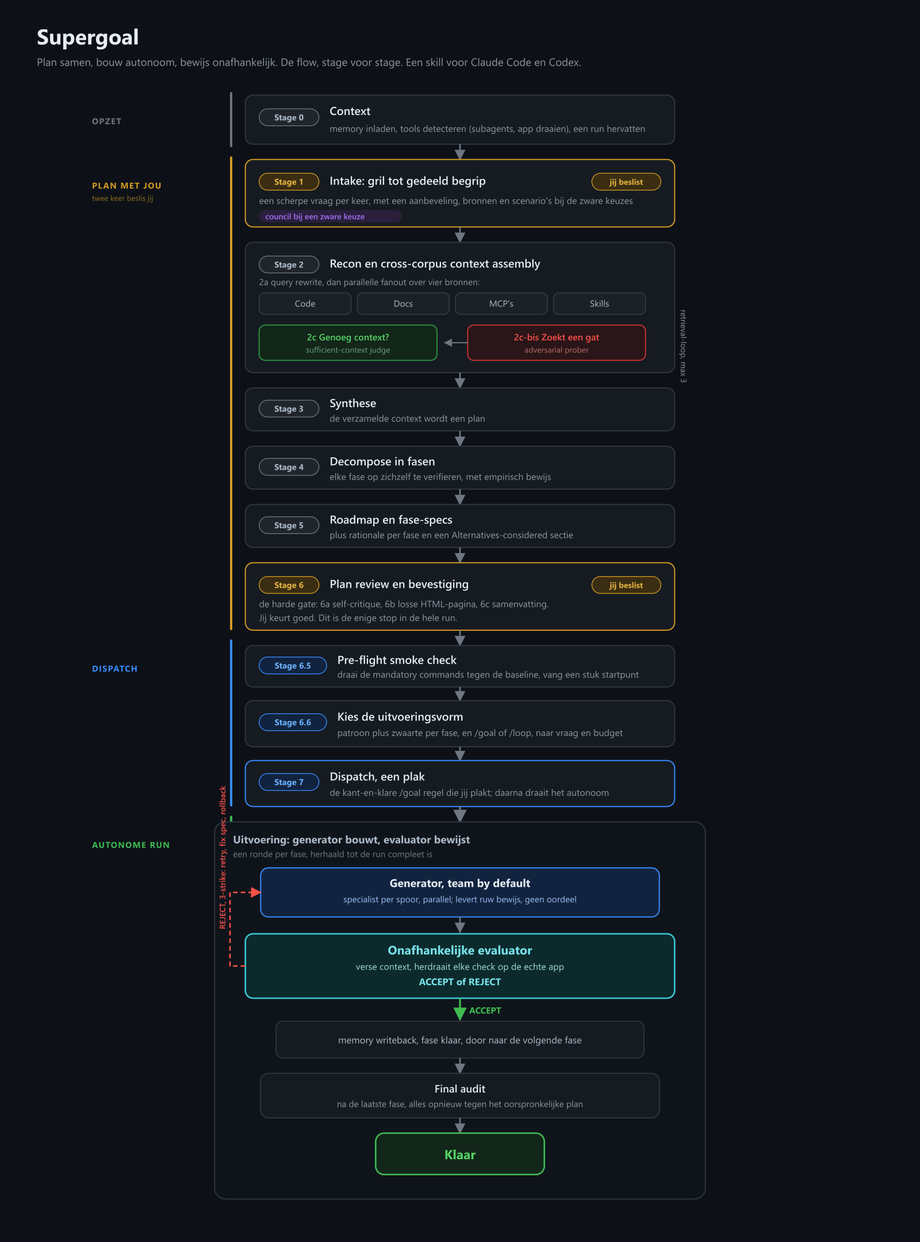
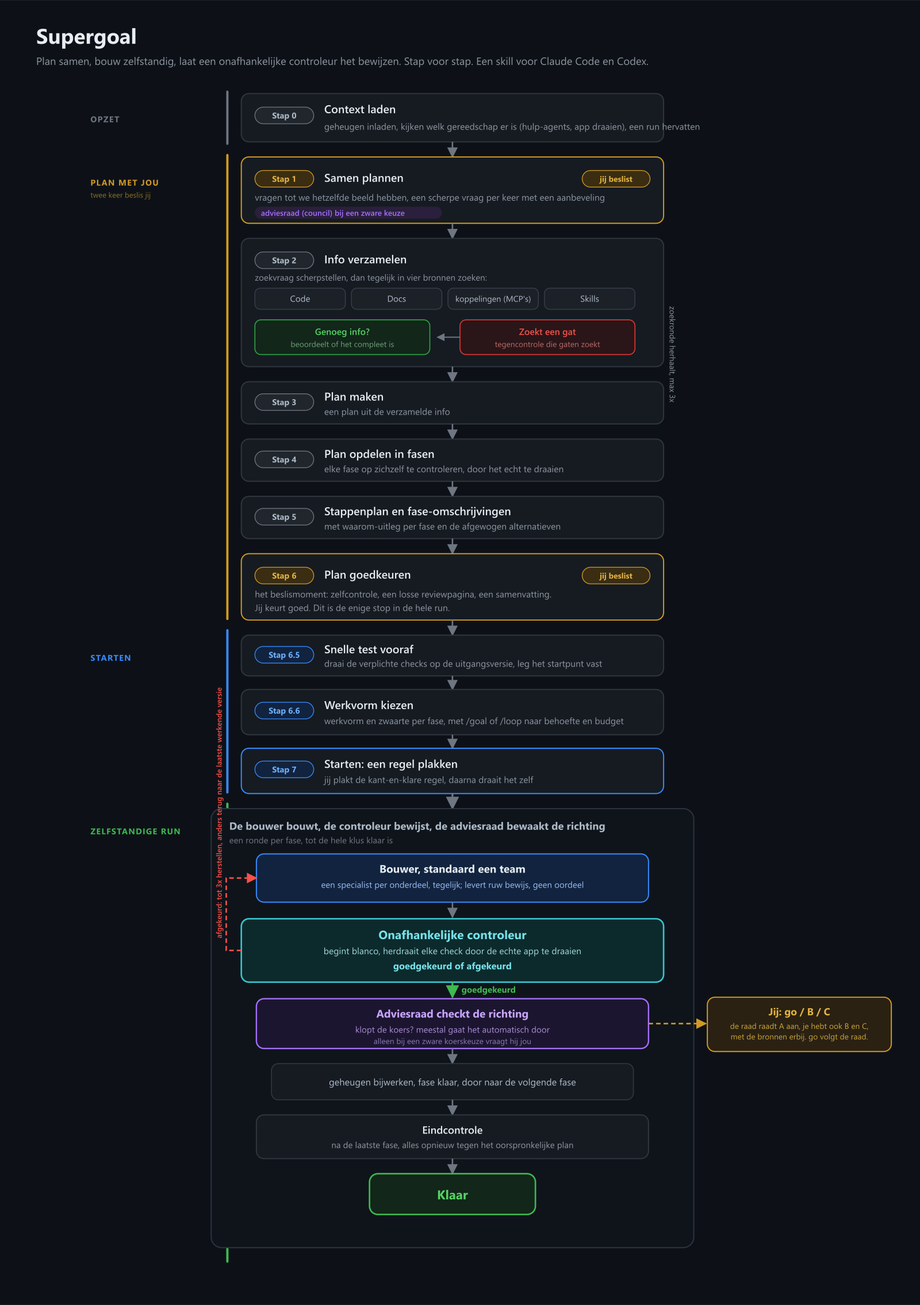
feat: council direction gate per phase; de-jargon the diagram and README
Adds a third role: after each evaluator ACCEPT a lightweight council direction-gate checks whether the phase locked a course the user should confirm or steer. Default is auto-approve and continue; it only escalates on a hard-to-reverse choice with multiple credible paths outside the confirmed scope, then convenes the council skill and presents recommendation A plus alternatives B/C and sources for a go/B/C answer. With no live input it follows A and logs it, so a long run never stalls. The correctness evaluator is unchanged and remains the only gate that closes a phase. New prompts/council-gate.md, STATE Council decisions log, goal-format council blocks, and B/C rewrites both the future phase-specs and the matching ROADMAP blocks so the final audit stays consistent. Redraws the dark architecture diagram in plain language and shows the council gate plus the go/B/C escalation.

Changed region(s): [[0.0312, 0.0, 0.9688, 0.9616], [0.0938, 0.1241, 0.1875, 0.1551]]

diff --git a/SKILL.md b/SKILL.md
@@ -12,7 +12,7 @@ $ARGUMENTS
 
 **Het principe waar alles omheen gebouwd is: niks is klaar tot iets onafhankelijks het bewijst, tegen de oorspronkelijke opdracht, door de app echt te draaien.** Claude Code stopt standaard zodra de agent zegt dat hij klaar is. Supergoal stopt pas als een controleur die het werk niet zelf maakte het bewijst. Dat ene verschil is de reden dat deze skill bestaat; al het andere staat daarvoor in dienst.
 
-## De twee rollen: generator en evaluator
+## De drie rollen: generator, evaluator en council
 
 Dit is de ruggengraat. Houd ze strikt gescheiden.
 
@@ -22,6 +22,8 @@ Dit is de ruggengraat. Houd ze strikt gescheiden.
 Een fase is pas klaar bij het oordeel van de evaluator, niet bij het rapport van de generator. REJECT start het herstel (drie pogingen, zie onder); pas bij ACCEPT sluit de fase.
 
 **Waarom dit beter is dan de standaard:** de grootste valkuil van autonome agents is dat ze zichzelf "klaar" verklaren terwijl het niet klopt. Een controleur met een schone lei, die alles zelf opnieuw doet, kan dat zelfbedrog niet overnemen.
+
+**De derde rol: council (de richtings-gate).** Op elke fasegrens, maar alleen nadat de evaluator de fase op correctheid heeft goedgekeurd, draait een lichte council-pass. De evaluator bewijst dat de fase doet wat de spec zegt (klopt het, werkt het); de council kijkt naar iets anders: stuurt het resultaat de juiste kant op, of moet de gebruiker de richting bijsturen. Default is AUTO-APPROVE en doorgaan zonder de gebruiker te storen. Alleen bij een keuze die moeilijk omkeerbaar is, meerdere geloofwaardige paden heeft, en buiten de bevestigde scope valt, escaleert de council: dan convoceert hij de volledige `council`-skill voor een aanbeveling (A), alternatieven (B/C) en bronnen, en presenteert die zodat jij `go`, `B` of `C` zegt. De council oordeelt nooit over correctheid en kan een ACCEPT niet terugdraaien, dus de evaluator-moat blijft intact. Volledige instructie in `prompts/council-gate.md`.
 
 **Isolatie per host:**
 - **Claude Code** (Task/Agent tool aanwezig): spawn de evaluator als subagent met een verse context. Echte isolatie.
@@ -38,6 +40,7 @@ Een lange run valt niet om door kosten maar door rate limits en door een te zwak
 | Sufficient-context judge + adversarial prober | sterk | dit is de context-gate; een zwakke judge laat gaten door |
 | Generator (executor) | het sessiemodel | bouwt het echte werk |
 | Evaluator | sterk, bij voorkeur opus | het hele voordeel hangt op een scherpe, onafhankelijke beoordelaar, dus nooit goedkoop |
+| Council (richtings-triage, en convocatie bij escalatie) | sessiemodel voor de triage, sterk voor een volle convocatie | de per-fase triage is een goedkope go/escaleer-call; een echte richtingskeuze verdient sterke onafhankelijke adviseurs |
 
 ## Wat "klaar" vereist
 
@@ -68,9 +71,9 @@ Het gewone plannen en uitvoeren leunt op wat Claude Code al kan (plan mode, /goa
 4. **Decompose**: het juiste aantal onafhankelijk verifieerbare fasen, elk met empirisch bewijs waar gedrag ontstaat.
 5. **Specs**: per fase een werk-spec met geklasseerde criteria plus een rationale met rollback-doel.
 6. **Plan review**: een menselijke gate, met self-critique en een HTML-overzicht.
-7. **Dispatch**: een kant-en-klare `/goal`. Daarna draait de generator/evaluator-loop autonoom tot de final audit het geheel tegen de oorspronkelijke spec bewijst.
+7. **Dispatch**: een kant-en-klare `/goal`. Daarna draait de generator/evaluator/council-loop autonoom tot de final audit het geheel tegen de oorspronkelijke spec bewijst. Per fase: de generator bouwt, de evaluator bewijst correctheid (ACCEPT/REJECT), en op ACCEPT keurt de council de richting goed of escaleert hij naar jou.
 
-Twee menselijke gates: verduidelijkingsvragen (Stage 1) en plan review (Stage 6). Daartussen en erna autonoom.
+Twee vaste menselijke gates (verduidelijkingsvragen in Stage 1, plan review in Stage 6), plus een dynamische gate die de council bepaalt: hij pauzeert de run alleen wanneer alleen jij de richting kunt kiezen. Bij geen live input volgt hij zijn eigen aanbeveling en gaat door, zodat je niets hoeft te babysitten.
 
 ## Lokaliseer de skill-directory
 
@@ -403,13 +406,13 @@ Leg de keuze vast in `STATE.md` als `Dispatch: <goal | loop> + <subagents | work
 Slash commands vuren alleen vanuit gebruikersinput, dus dit is een eerlijke een-plak overdracht. Print de vorm die Stage 6.6 koos. In de meeste gevallen is dat de `/goal` plak hieronder; bij een terugkerende taak print je in plaats daarvan een `/loop` (zie onder). Na "Start now":
 
 1. Update `STATE.md`: `Status: READY_TO_DISPATCH`, `Current phase: 1`, en leg `Baseline ref:` vast op `git rev-parse HEAD 2>/dev/null || echo "no-git"`. Initialiseer `Phase baselines:` (leeg); de generator voegt per fasegrens een entry toe (`phase <N> pre: <ref>`), de rollback-ankers waar `phase-N-rationale.md` naar verwijst.
-2. Kopieer `$SUPERGOAL_DIR/templates/PROTOCOL.md` naar `.supergoal/PROTOCOL.md`, `$SUPERGOAL_DIR/prompts/phase-judge.md` naar `.supergoal/evaluator.md` (de evaluator-instructie die de subagent of fallback-pass leest), `$SUPERGOAL_DIR/prompts/phase-team.md` naar `.supergoal/phase-team.md` (de team-instructie voor de generator), `$SUPERGOAL_DIR/references/workflow-patterns.md` naar `.supergoal/workflow-patterns.md` (de patroon-keuze voor de generator), en `$SUPERGOAL_DIR/scripts/repo-state.sh` naar `.supergoal/repo-state.sh`.
+2. Kopieer `$SUPERGOAL_DIR/templates/PROTOCOL.md` naar `.supergoal/PROTOCOL.md`, `$SUPERGOAL_DIR/prompts/phase-judge.md` naar `.supergoal/evaluator.md` (de evaluator-instructie die de subagent of fallback-pass leest), `$SUPERGOAL_DIR/prompts/phase-team.md` naar `.supergoal/phase-team.md` (de team-instructie voor de generator), `$SUPERGOAL_DIR/references/workflow-patterns.md` naar `.supergoal/workflow-patterns.md` (de patroon-keuze voor de generator), `$SUPERGOAL_DIR/prompts/council-gate.md` naar `.supergoal/council-gate.md` (de richtings-gate die na een evaluator-ACCEPT draait), en `$SUPERGOAL_DIR/scripts/repo-state.sh` naar `.supergoal/repo-state.sh`.
 3. Verifieer elke `phase-N.md` en draai `validate-phase.sh` erop.
 4. Print het kant-en-klare `/goal` commando:
 
 ````
 ```
-/goal "Execute all phases in .supergoal/ROADMAP.md sequentially per .supergoal/PROTOCOL.md. For each phase: read phase-N.md, do the work as the GENERATOR, print SUPERGOAL_PHASE_EVIDENCE (raw commands+output+exit codes, files changed, artifact observations; NO verdict). Then run the INDEPENDENT EVALUATOR per .supergoal/evaluator.md: it re-runs every check itself against repository ground truth and the running artifact, blind to the generator's account, and prints SUPERGOAL_EVAL_VERDICT phase=N with ACCEPT or REJECT. Only on ACCEPT print SUPERGOAL_PHASE_DONE and advance; on REJECT follow the 3-strike recovery in PROTOCOL.md. After the last phase, the evaluator runs the FINAL AUDIT against the original ROADMAP.md and re-observes the artifact; only after AUDIT_COMPLETE print SUPERGOAL_RUN_COMPLETE. Done when SUPERGOAL_RUN_COMPLETE appears with one ACCEPT and one SUPERGOAL_PHASE_DONE per phase, AUDIT_COMPLETE before it, and no FAILURE_HANDOFF or AUDIT_HANDOFF this run."
+/goal "Execute all phases in .supergoal/ROADMAP.md sequentially per .supergoal/PROTOCOL.md. For each phase: read phase-N.md, do the work as the GENERATOR, print SUPERGOAL_PHASE_EVIDENCE (raw commands+output+exit codes, files changed, artifact observations; NO verdict). Then run the INDEPENDENT EVALUATOR per .supergoal/evaluator.md: it re-runs every check itself against repository ground truth and the running artifact, blind to the generator's account, and prints SUPERGOAL_EVAL_VERDICT phase=N with ACCEPT or REJECT. Only on ACCEPT run the COUNCIL DIRECTION GATE per .supergoal/council-gate.md: it judges direction not correctness, prints SUPERGOAL_COUNCIL_VERDICT phase=N with AUTO-APPROVE or ESCALATE; on ESCALATE it convenes the council skill, prints SUPERGOAL_COUNCIL_ESCALATE with recommendation A, alternatives B/C and sources, and either takes the user's go/B/C or, with no live input, follows A and logs it. Then print SUPERGOAL_PHASE_DONE and advance; on REJECT follow the 3-strike recovery in PROTOCOL.md. After the last phase, the evaluator runs the FINAL AUDIT against the original ROADMAP.md and re-observes the artifact; only after AUDIT_COMPLETE print SUPERGOAL_RUN_COMPLETE. Done when SUPERGOAL_RUN_COMPLETE appears with one ACCEPT, one SUPERGOAL_COUNCIL_VERDICT (AUTO-APPROVE or a resolved escalation), and one SUPERGOAL_PHASE_DONE per phase, AUDIT_COMPLETE before it, and no FAILURE_HANDOFF or AUDIT_HANDOFF this run."
 ```
 ````
 
@@ -425,7 +428,7 @@ Koos Stage 6.6 voor `/loop` (de taak is terugkerend, niet bouw-tot-klaar), print
 
 ---
 
-## Uitvoering: generator bouwt, evaluator bewijst
+## Uitvoering: generator bouwt, evaluator bewijst, council bewaakt de richting
 
 Dit is de loop die binnen de `/goal` sessie draait, herhaald tot `SUPERGOAL_RUN_COMPLETE`. Volledige mechaniek in `.supergoal/PROTOCOL.md`; de kern:
 
@@ -433,8 +436,9 @@ Dit is de loop die binnen de `/goal` sessie draait, herhaald tot `SUPERGOAL_RUN_
 2. Print `SUPERGOAL_PHASE_START`.
 3. **Generator (team by default, solo alleen bij een atomaire fase)**: kies eerst het werkpatroon dat bij de fase past (zie `references/workflow-patterns.md`): default geen patroon, anders classify-and-act, fan-out-and-synthesize, adversarial verification, generate-and-filter, tournament of loop-until-done naar het signaal in de spec. Knip de fase in onafhankelijke sporen; bij twee of meer sporen dispatch je een specialist-subagent per spoor parallel (zie `.supergoal/phase-team.md`), en los per spoor de skill op met de skill-finder-passes (installed matchen; anders zoeken en `npx skills add <owner/repo>` van skills.sh; anders zelf een skill schrijven). Parallelle subagents zijn de default en kosten geen credits; sequentieel is alleen voor een atomaire fase of zonder subagent-tool, de Workflow-tool alleen voor grote swarms met credits. Een fase met twee of meer sporen draait nooit als een enkele agent, en een team met een agent bestaat niet. Print eerst `SUPERGOAL_PHASE_TEAM` (patroon, sporen, specialisten parallel, opgeloste skills). Doe dan het werk, draai mandatory commands, stuur het artefact aan voor de empirische criteria, en print `SUPERGOAL_PHASE_EVIDENCE`: ruwe command-output + exit codes, gewijzigde bestanden, en de observaties. Het team velt geen oordeel; dat blijft de evaluator.
 4. **Evaluator** (subagent met verse context, of fallback-pass): leest `phase-N.md` en `.supergoal/evaluator.md`, niet het generator-oordeel. Herdraait elke check per klasse: commands opnieuw, `repo-state.sh` voor deliverables, het artefact zelf aansturen voor `empirical`, blind oordeel voor `llm-judge`, her-grep voor `self-consistency`. Print `SUPERGOAL_EVAL_VERDICT phase=N` met per-criterium pass/fail + bewijs, en ACCEPT of REJECT.
-5. **Gate**: REJECT -> 3-strike recovery (zie onder). ACCEPT -> memory writeback check, dan `SUPERGOAL_PHASE_DONE`, update `STATE.md`.
-6. User-interrupt check op de fasegrens. N < total: volgende fase. N == total: final audit, dan pas `SUPERGOAL_RUN_COMPLETE`.
+5. **Correctheids-gate** (evaluator): REJECT -> 3-strike recovery (zie onder). ACCEPT -> stap 5b.
+5b. **Council (richtings-gate, alleen na een ACCEPT)**: draai de council-pass uit `.supergoal/council-gate.md`. Hij beoordeelt alleen richting, niet correctheid, en krijgt de fase-spec, het evaluator-verdict en een compacte diff, niet het transcript. AUTO-APPROVE (default): print `SUPERGOAL_COUNCIL_VERDICT` en door. ESCALATE (alleen bij een moeilijk omkeerbare keuze met meerdere paden buiten de bevestigde scope): convoceer de `council`-skill, print `SUPERGOAL_COUNCIL_ESCALATE` (aanbeveling A, alternatieven B/C, bronnen), wacht op `go/B/C`, of volg bij geen live input A en log het. Bij `B/C` herschrijf je de geraakte toekomstige fase-specs en de bijbehorende `ROADMAP.md`-blokken, herdraai je `validate-phase.sh`, en log je onder `STATE.md` Council decisions. De council kan een ACCEPT niet overrulen.
+6. Memory writeback check, dan `SUPERGOAL_PHASE_DONE`, update `STATE.md`. User-interrupt check op de fasegrens. N < total: volgende fase. N == total: final audit, dan pas `SUPERGOAL_RUN_COMPLETE`.
 
 ### Per-fase team (swarm) en dynamische skills
 
@@ -449,6 +453,14 @@ Skills los je dynamisch op met de skill-finder-logica:
 3. Keert het terug en dekt niks het, schrijf dan een nieuwe, generieke skill in de skill-finder-structuur, zodat een volgende run hem matcht in pass 1.
 
 Dit verandert niks aan de gate: het team is de generator, en de onafhankelijke evaluator herdraait daarna alles. Meer agents is meer bouwkracht, geen extra vertrouwen vooraf.
+
+### Council-gate per fase (richting) en escalatie
+
+Na elke evaluator-ACCEPT draait een council-triage (`.supergoal/council-gate.md`). Hij krijgt de fase-spec, het evaluator-verdict en een compacte diff, niet het volledige gesprek (anti-anchoring). Vraag: legt deze fase een richting vast die de gebruiker zou willen bevestigen of bijsturen?
+
+Escaleer alleen bij alle drie tegelijk: (1) moeilijk of niet omkeerbaar (stack, datamodel, architectuur, vendor-binding), (2) meerdere geloofwaardige paden, (3) buiten wat de gebruiker al in Stage 1 of Stage 6 bevestigde. Mist er een, dan AUTO-APPROVE en door. Correctheids-twijfel hoort hier niet, dat is de evaluator.
+
+Bij escalatie convoceer je de volledige `council`-skill voor een verdict en presenteer je via `AskUserQuestion`: optie A (de aanbeveling, eerst), B en C, met de bronnen erbij. De gebruiker zegt `go` (volg A), of `B`/`C` (stuur bij). Bij `B/C` herschrijf je de geraakte toekomstige fase-specs in-place en de bijbehorende `ROADMAP.md`-blokken, herdraai je `validate-phase.sh`, en log je de afwijking onder `STATE.md` Council decisions. Is er geen levende gebruiker, volg dan automatisch A en log het als `auto-A`, zodat de run niet stilstaat. De geraakte fasen worden later opnieuw door de evaluator bewezen, dus de moat blijft intact.
 
 ### Failure recovery (3-strike, op REJECT)
 
@@ -487,10 +499,12 @@ Waard om op te slaan: een API-eigenaardigheid die niet in de docs stond, een bev
 ## Werkingsprincipes
 
 - **De evaluator beoordeelt nooit zijn eigen werk.** Generator en evaluator zijn strikt gescheiden; het verdict komt van de partij die het werk niet maakte.
+- **Evaluator bewijst correctheid, council bewaakt richting.** De evaluator gate-t op klopt-het en sluit de fase; de council gate-t op welke-richting en haalt alleen de mens erbij wanneer alleen die kan beslissen. Ze raken elkaar niet, dus de council vervangt de moat niet en kan een ACCEPT niet overrulen.
+- **De council escaleert spaarzaam.** Default is auto-approve en doorgaan. Escaleren mag alleen bij een moeilijk omkeerbare keuze met meerdere paden buiten de bevestigde scope; bij geen live input volgt de council zijn eigen aanbeveling, zodat de run niet stilstaat.
 - **Bewijs is empirisch, niet declaratief.** Het draaiende artefact observeren slaat "tests groen" als bewijs van gedrag.
 - **Herdraaien boven vertrouwen.** De evaluator produceert eigen exit codes, eigen observaties, eigen tree-diff. Hij neemt geen enkel generator-rapport over.
 - **"Perfect" is geen stopconditie, criteria wel.** Elk "perfect" wordt een falsifieerbaar, geklasseerd criterium.
-- **Twee menselijke gates.** Grill-intake (Stage 1) en plan review (Stage 6). Daartussen autonoom.
+- **Twee vaste gates plus een dynamische.** Grill-intake (Stage 1) en plan review (Stage 6) zijn vast; daarbovenop pauzeert de council de run alleen wanneer alleen jij de richting kunt kiezen. Daartussen autonoom.
 - **De loop herstelt zichzelf, dan reverteert hij, dan escaleert hij.** Auto-retry, fix spec, rollback naar baseline, handoff.
 - **State leeft op schijf.** Plan, voortgang en baselines overleven context-compaction en laten een run mid-loop hervatten.
 - **Plan door te grillen.** Een vraag per keer met aanbeveling, codebase-eerst, tot elke materiele beslissing is opgelost. Een plan op gedeeld begrip hoeft de evaluator later niet af te keuren.
@@ -532,6 +546,7 @@ Waard om op te slaan: een API-eigenaardigheid die niet in de docs stond, een bev
 - `prompts/adversarial-prober.md`: de tweede context-judge (Stage 2c-bis)
 - `prompts/phase-judge.md`: de onafhankelijke evaluator, gekopieerd naar `.supergoal/evaluator.md` bij dispatch
 - `prompts/phase-team.md`: de per-fase team-orchestratie (swarm) plus dynamische skill-resolutie, gekopieerd naar `.supergoal/phase-team.md` bij dispatch
+- `prompts/council-gate.md`: de per-fase richtings-gate (council) plus escalatie, gekopieerd naar `.supergoal/council-gate.md` bij dispatch
 
 ## Templates
 

diff --git a/prompts/council-gate.md b/prompts/council-gate.md
@@ -1,0 +1,85 @@
+# Council direction gate (per fase, alleen na een evaluator-ACCEPT)
+
+Bij dispatch wordt dit bestand gekopieerd naar `.supergoal/council-gate.md`. De generator
+draait deze pass op elke fasegrens, maar **alleen nadat de onafhankelijke evaluator de fase op
+correctheid heeft goedgekeurd** (`SUPERGOAL_EVAL_VERDICT ... ACCEPT`). Op een REJECT draait de
+council niet.
+
+De council bewaakt **richting**, niet correctheid. De evaluator bewijst dat de fase doet wat de
+spec zegt (klopt het, werkt het). De council kijkt naar iets anders: stuurt het resultaat de
+juiste kant op, of moet de gebruiker de richting bijsturen. De council oordeelt nooit of de code
+werkt en kan een ACCEPT niet terugdraaien.
+
+## Input (anti-anchoring)
+
+De council-pass krijgt: de fase-spec (`phase-N.md`), het evaluator-verdict, en een compacte diff
+plus de empirische observaties (`repo-state.sh added-lines` tegen de baseline). **Niet** het hele
+gesprek, zodat de luidste framing uit de chat de richtingsbeoordeling niet kleurt.
+
+## De triage: AUTO-APPROVE of ESCALATE
+
+Dit is een lichte triage-pass, een enkele go/escaleer-beslissing, geen volledige council-convocatie.
+Stel een vraag: legt deze fase een richting vast die de gebruiker zou willen bevestigen of bijsturen?
+
+**Escaleer ALLEEN als alle drie tegelijk waar zijn:**
+
+1. **Moeilijk omkeerbaar** (one-way-door): stack, datamodel, architectuur, een vendor-binding, een
+   publieke API-vorm. Duur of onmogelijk om later terug te draaien.
+2. **Meerdere geloofwaardige paden**: er is geen duidelijke winnaar.
+3. **Buiten de bevestigde scope**: de gebruiker heeft deze keuze niet al in Stage 1 (intake) of
+   Stage 6 (plan review) expliciet vastgelegd.
+
+Mist er een, dan **AUTO-APPROVE** en door, zonder de gebruiker te storen. Twijfel of de code werkt
+is nooit een council-zaak; dat is de evaluator. In een gezonde run is het overgrote deel van de
+fasen AUTO-APPROVE en ziet de gebruiker niets.
+
+### AUTO-APPROVE
+
+Print `SUPERGOAL_COUNCIL_VERDICT phase=<N>` met `decision=AUTO-APPROVE` en een eenregelige reden.
+Ga door naar memory writeback en de volgende fase.
+
+### ESCALATE
+
+Pas hier convoceer je de **volledige council-skill** (`council`): onafhankelijke adviseurs met
+eigen methodes, parallel, blinde peer-review, een chairman-verdict met de sterkste tegenstem
+zichtbaar. Die levert de aanbeveling, de alternatieven en de bronnen. Right-size zoals de
+council-skill voorschrijft: voor een goedkoop-omkeerbare keuze convoceer je niet.
+
+Print `SUPERGOAL_COUNCIL_ESCALATE phase=<N>` met:
+
+- de richtingsvraag in een zin ("Fase N legde X vast; dit stuurt de volgende fasen"),
+- **Aanbeveling A**: de council-aanbeveling, eerst, met een halve regel waarom (de chairman-synthese),
+- **Alternatieven B en C**: elk een halve regel met de belangrijkste trade-off,
+- **Bronnen**: 1-3 links of `file:line`-verwijzingen waarop de keuze rust, vers opgehaald.
+
+Presenteer via `AskUserQuestion` (header bijvoorbeeld "Council: richting fase N"), opties in deze
+volgorde: **"go" (volg de council, optie A)**, **"B"**, **"C"**.
+
+## De antwoorden
+
+- **go**: volg de council, optie A. Geen spec-wijziging. De loop hervat, de volgende fase start.
+- **B of C**: stuur bij. Herschrijf de geraakte **toekomstige** fase-specs in-place naar het
+  gekozen pad, **en werk de overeenkomstige fase-blokken in `ROADMAP.md` mee bij** (anders toetst
+  de final audit straks tegen het verlaten pad en draait hij eindeloos "fixen"). Herdraai
+  `validate-phase.sh` op de gewijzigde specs. Log de afwijking onder `STATE.md` -> `Council
+  decisions`. Hervat dan.
+
+De net-geaccepteerde fase N blijft staan zoals de evaluator hem bewees; bijsturen verandert het
+plan **vooruit**, niet het al-bewezen werk. Elke daardoor gewijzigde latere fase wordt op zijn
+beurt opnieuw door de evaluator bewezen, dus de moat blijft intact.
+
+## Default bij geen live input (niet babysitten)
+
+Een autonome `/goal` run mag niet eindeloos stilstaan op een onbeantwoorde escalatie. Is er geen
+levende gebruiker die binnen de natuurlijke flow van de run `go/B/C` geeft, **volg dan automatisch
+de council-aanbeveling A**, log het onder `STATE.md` -> `Council decisions` als
+`fase <N>: auto-A (geen live input), council raadde A aan`, en ga door. De escalatie staat in het
+transcript, dus een meekijkende gebruiker kan op de volgende fasegrens alsnog bijsturen. Zo blijft
+"ik wil dit niet babysitten" waar, terwijl de stuurmomenten die de gebruiker vroeg er wel zijn.
+
+## Grens
+
+De council draait alleen na een evaluator-ACCEPT, oordeelt nooit over correctheid, kan een ACCEPT
+niet overrulen en heropent een geaccepteerde fase niet. Meer richtingsbewaking koopt geen
+vertrouwen vooraf; de evaluator herdraait alles onafhankelijk. Evaluator = klopt het. Council =
+welke kant op.

diff --git a/README.md b/README.md
@@ -18,9 +18,10 @@ Supergoal neemt een taak die je normaal de hele dag moet babysitten en draait he
 De grootste faalmodus van autonome agents is dat ze zichzelf "klaar" verklaren terwijl het niet klopt. Supergoal haalt dat weg:
 
 - **De bouwer keurt nooit zijn eigen werk.** Een onafhankelijke evaluator met een schone context doet elke check zelf opnieuw, blind voor wat de bouwer beweert.
-- **Bewijs is empirisch.** De evaluator draait de echte app en kijkt of het gedrag klopt, niet alleen of de tests groen zijn.
+- **Bewijs komt uit de echte app.** De evaluator draait de app en kijkt of het gedrag klopt, niet alleen of de tests groen zijn.
 - **Gebouwd voor lange runs.** Plan en voortgang staan op schijf en overleven context-verlies. Een regressie rolt terug naar de baseline van de vorige fase. Aan het eind draait een audit tegen het oorspronkelijke plan.
-- **Plannen is een gesprek.** In de planfase interviewt de skill je als een architect: een scherpe vraag per keer, met een aanbeveling, plus artikelen en scenario's zodat je op inhoud beslist. Bij een echt zware, onomkeerbare keuze convoceert hij een council van onafhankelijke adviseurs die de afweging voor je uitvecht.
+- **Plannen is een gesprek.** In de planfase interviewt de skill je als een architect: een scherpe vraag per keer, met een aanbeveling, plus artikelen en scenario's zodat je op inhoud beslist. Bij een echt zware, onomkeerbare keuze roept hij een adviesraad (council) van onafhankelijke adviseurs bijeen die de afweging voor je uitvecht.
+- **Een adviesraad bewaakt de richting.** Tijdens de run kijkt na elke goedgekeurde fase een adviesraad of de koers nog klopt. Meestal gaat het automatisch door. Alleen bij een zware koerskeuze pauzeert hij en legt hij je een aanbeveling met alternatieven en bronnen voor: zeg `go` om de raad te volgen, of `B`/`C` om bij te sturen. Is er niemand om te antwoorden, dan volgt hij zijn eigen aanbeveling, zodat een lange run niet stilstaat.
 - **Per fase een team.** Een fase met losse sporen draait standaard als team: een specialist per spoor, parallel, elk met een eigen skillset, en ontbrekende skills bijgehaald via de skills.sh registry of zelf geschreven. De onafhankelijke evaluator blijft er overheen, dus de bouwkracht groeit zonder dat het vertrouwen daalt. Parallelle subagents kosten geen extra credits; alleen grote swarms via de Workflow-tool wel.
 
 ## Hoe het werkt
@@ -30,10 +31,10 @@ De grootste faalmodus van autonome agents is dat ze zichzelf "klaar" verklaren t
 3. **Context verzamelen.** Info uit vier bronnen (code, docs, MCP's, skills), met een check of het genoeg is plus een tweede check die juist een gat zoekt.
 4. **Plan opdelen.** Zoveel fasen als de taak nodig heeft, elk op zichzelf te controleren, met empirisch bewijs waar gedrag ontstaat.
 5. **Plan-review.** Je krijgt een samenvatting plus een losse HTML-pagina met de fasen, de keuzes, de bronnen en de risico's. Jij keurt goed. Dit is de enige stop.
-6. **Autonome run.** Een ronde per fase: de generator bouwt, de onafhankelijke evaluator bewijst (ACCEPT of REJECT). REJECT start een herstel van maximaal drie pogingen. Per fase kan de generator een team van specialisten opzetten en ontbrekende skills bijladen (via skills.sh of zelf geschreven); de evaluator blijft er onafhankelijk overheen.
+6. **Autonome run.** Een ronde per fase: de generator bouwt, de onafhankelijke evaluator bewijst (ACCEPT of REJECT). REJECT start een herstel van maximaal drie pogingen. Per fase kan de generator een team van specialisten opzetten en ontbrekende skills bijladen (via skills.sh of zelf geschreven); de evaluator blijft er onafhankelijk overheen. Na elke goedgekeurde fase checkt de adviesraad de richting: meestal gaat het door, alleen bij een zware koerskeuze vraagt hij jou (`go` / `B` / `C`).
 7. **Eindaudit.** Na de laatste fase controleert de evaluator het geheel nog eens tegen het oorspronkelijke plan, voordat de run als klaar geldt.
 
-Twee keer is jouw input nodig: de planfase en de plan-review. Daartussen en erna draait het zelf.
+Twee vaste momenten vragen jouw input: de planfase en de plan-review. Daarbovenop pauzeert de adviesraad de run alleen wanneer alleen jij een koerskeuze kunt maken. Verder draait het zelf.
 
 Supergoal kiest zelf de uitvoeringsvorm: `/goal` voor een gewone build, met parallelle subagents per scheidbaar spoor (gratis), grote Workflow-swarms alleen als je budget het toelaat, of `/loop` (of een scheduled task) als de taak terugkerend is.
 

diff --git a/templates/PROTOCOL.md b/templates/PROTOCOL.md
@@ -3,9 +3,12 @@
 Dit bestand wordt gelezen door de uitvoerende agent aan het begin van de enkele `/goal`
 sessie en de hele run gevolgd. Het is de operating manual voor de autonome run.
 
-De kern: **de generator bouwt, een onafhankelijke evaluator bewijst.** De generator velt
-nooit zijn eigen pass/fail-oordeel. De fase-gate is het verdict van de evaluator. De
-evaluator-instructie staat in `.supergoal/evaluator.md`.
+De kern: **de generator bouwt, een onafhankelijke evaluator bewijst, en een council bewaakt de
+richting.** De generator velt nooit zijn eigen pass/fail-oordeel. De evaluator gate-t op
+correctheid (ACCEPT/REJECT) en is de enige die een fase sluit. De council draait alleen na een
+evaluator-ACCEPT, oordeelt nooit over correctheid, en bepaalt of de gebruiker nodig is om de
+richting te houden. De evaluator-instructie staat in `.supergoal/evaluator.md`, de
+council-instructie in `.supergoal/council-gate.md`.
 
 ## De loop
 
@@ -55,9 +58,22 @@ Herhaal tot `SUPERGOAL_RUN_COMPLETE` is geprint:
    (Go), plus TODO/FIXME en dode imports toegevoegd deze fase. Een non-zero telling telt
    als fail, tenzij de spec een `Cleanliness override:` regel draagt. Strategie:
    `references/repo-state-comparison.md`.
-8. **Gate.**
+8. **Correctheids-gate (evaluator).**
    - **REJECT**: ga naar Failure recovery. Niet doorgaan.
-   - **ACCEPT**: ga door naar stap 9.
+   - **ACCEPT**: ga door naar stap 8b.
+8b. **Council-gate (richting, alleen op ACCEPT).** Draai de council-pass uit
+   `.supergoal/council-gate.md`. Hij krijgt `phase-N.md`, het `SUPERGOAL_EVAL_VERDICT` en een
+   compacte diff (`repo-state.sh added-lines` vs `Baseline ref`) plus de observaties, niet het hele
+   transcript. Hij beoordeelt alleen richting, niet correctheid. Print
+   `SUPERGOAL_COUNCIL_VERDICT phase=N` met `decision=AUTO-APPROVE` of `ESCALATE` en een reden.
+   - **AUTO-APPROVE** (default): door naar stap 9.
+   - **ESCALATE** (alleen bij een one-way-door met meerdere paden buiten de bevestigde scope):
+     convoceer de `council`-skill, print `SUPERGOAL_COUNCIL_ESCALATE` (aanbeveling A, alternatieven
+     B/C, bronnen), pauzeer en wacht op `go/B/C`. Verwerk het antwoord (`go` = A volgen; `B/C` = de
+     geraakte toekomstige fase-specs en de bijbehorende `ROADMAP.md`-blokken in-place herschrijven,
+     `validate-phase.sh` herdraaien), log onder `STATE.md` Council decisions, ga dan naar stap 9. Is
+     er geen levende gebruiker, volg dan A en log het als `auto-A`. De council kan de fase niet
+     sluiten zonder de ACCEPT en niet heropenen.
 9. **Memory writeback check.** Iets niet-voor-de-hand-liggends geleerd? Zo ja, schrijf een
    memory-bestand onder MEM_DIR (frontmatter: `name`, `description`, `metadata.type`),
    link vanuit `MEMORY.md`. Print `MEMORY_SAVED: <name>` of `MEMORY_SAVED: none`.
@@ -153,6 +169,10 @@ Bij een gebruikersbericht tijdens de run: pauzeer op de fasegrens (na
 `SUPERGOAL_PHASE_DONE`, voor de volgende spec), adresseer het, vraag of je hervat, de
 volgende spec herziet, of stopt.
 
+Een `SUPERGOAL_COUNCIL_ESCALATE` is zelf een geplande pauze op de fasegrens (na de
+evaluator-ACCEPT): behandel het `go/B/C`-antwoord als richtingsbeslissing, niet als een gewone
+mid-run onderbreking, en hervat daarna de loop bij stap 9. Komt er geen antwoord, volg A en ga door.
+
 ## Memory writeback rules
 
 Zie de `Memory writeback` sectie in SKILL.md. Kort:
@@ -169,6 +189,8 @@ Zie `references/goal-format.md` voor het exacte formaat van:
 - `SUPERGOAL_PHASE_TEAM` (generator, alleen als de fase een team draait)
 - `SUPERGOAL_PHASE_EVIDENCE` (generator, ruw, geen oordeel)
 - `SUPERGOAL_EVAL_VERDICT` (evaluator, ACCEPT/REJECT)
+- `SUPERGOAL_COUNCIL_VERDICT` (council, na een ACCEPT, AUTO-APPROVE of ESCALATE)
+- `SUPERGOAL_COUNCIL_ESCALATE` (council, alleen bij ESCALATE: aanbeveling A, alternatieven B/C, bronnen, wacht op go/B/C)
 - `MEMORY_SAVED`
 - `SUPERGOAL_PHASE_DONE`
 - `AUDIT_START` / `AUDIT_VERIFY` / `AUDIT_GAPS` / `AUDIT_COMPLETE` / `AUDIT_HANDOFF`

diff --git a/references/goal-format.md b/references/goal-format.md
@@ -111,6 +111,34 @@ Verdict: ACCEPT | REJECT
 
 ACCEPT only if every criterion is `pass` or `inconclusive` and cleanliness counts are zero (unless the spec sets `Cleanliness override:`). Any `fail` or non-zero cleanliness count forces REJECT.
 
+### `SUPERGOAL_COUNCIL_VERDICT` (council direction gate, once per phase, only after an ACCEPT)
+
+The council judges direction, never correctness. It runs only on an evaluator ACCEPT, and cannot overrule it.
+
+```
+SUPERGOAL_COUNCIL_VERDICT phase=<N>
+decision: AUTO-APPROVE | ESCALATE
+reason: <one line: why no direction call is needed, or why this escalates>
+```
+
+AUTO-APPROVE is the default. ESCALATE only when all three hold: the choice is hard to reverse, has multiple credible paths, and falls outside what the user already confirmed in Stage 1 or Stage 6.
+
+### `SUPERGOAL_COUNCIL_ESCALATE` (council, only on ESCALATE, pauses for go/B/C)
+
+Printed when the gate convenes the full `council` skill for a genuine direction call.
+
+```
+SUPERGOAL_COUNCIL_ESCALATE phase=<N>
+Question: <the direction at stake, one line>
+A (council recommendation): <option> - <half-line why>
+B: <alternative> - <main trade-off>
+C: <alternative> - <main trade-off>
+Sources: <1-3 links or file:line the choice rests on>
+Waiting for: go (follow A) | B | C
+```
+
+On `go`: follow A, no spec change. On `B`/`C`: rewrite the affected future phase-specs in-place AND the matching `ROADMAP.md` phase blocks, rerun `validate-phase.sh`, log under `STATE.md` Council decisions. With no live answer in an autonomous run: follow A and log it as `auto-A`.
+
 ### `MEMORY_SAVED` (once per phase, after ACCEPT, before DONE)
 
 ```

diff --git a/templates/STATE.md b/templates/STATE.md
@@ -39,6 +39,12 @@ Append-only log of anything noteworthy that happened during execution (assumptio
 - {{DATE}} — Plan locked, {{N}} phases.
 - ...
 
+## Council decisions
+
+Append-only log of every council direction-gate outcome that needed a call: an escalation the user answered (`go`/`B`/`C`), or an `auto-A` when there was no live input. AUTO-APPROVE outcomes are not logged here.
+
+- (empty until a phase escalates)
+
 ## Failure log
 
 If a phase hits FAILURE_PROBE, record it here:
